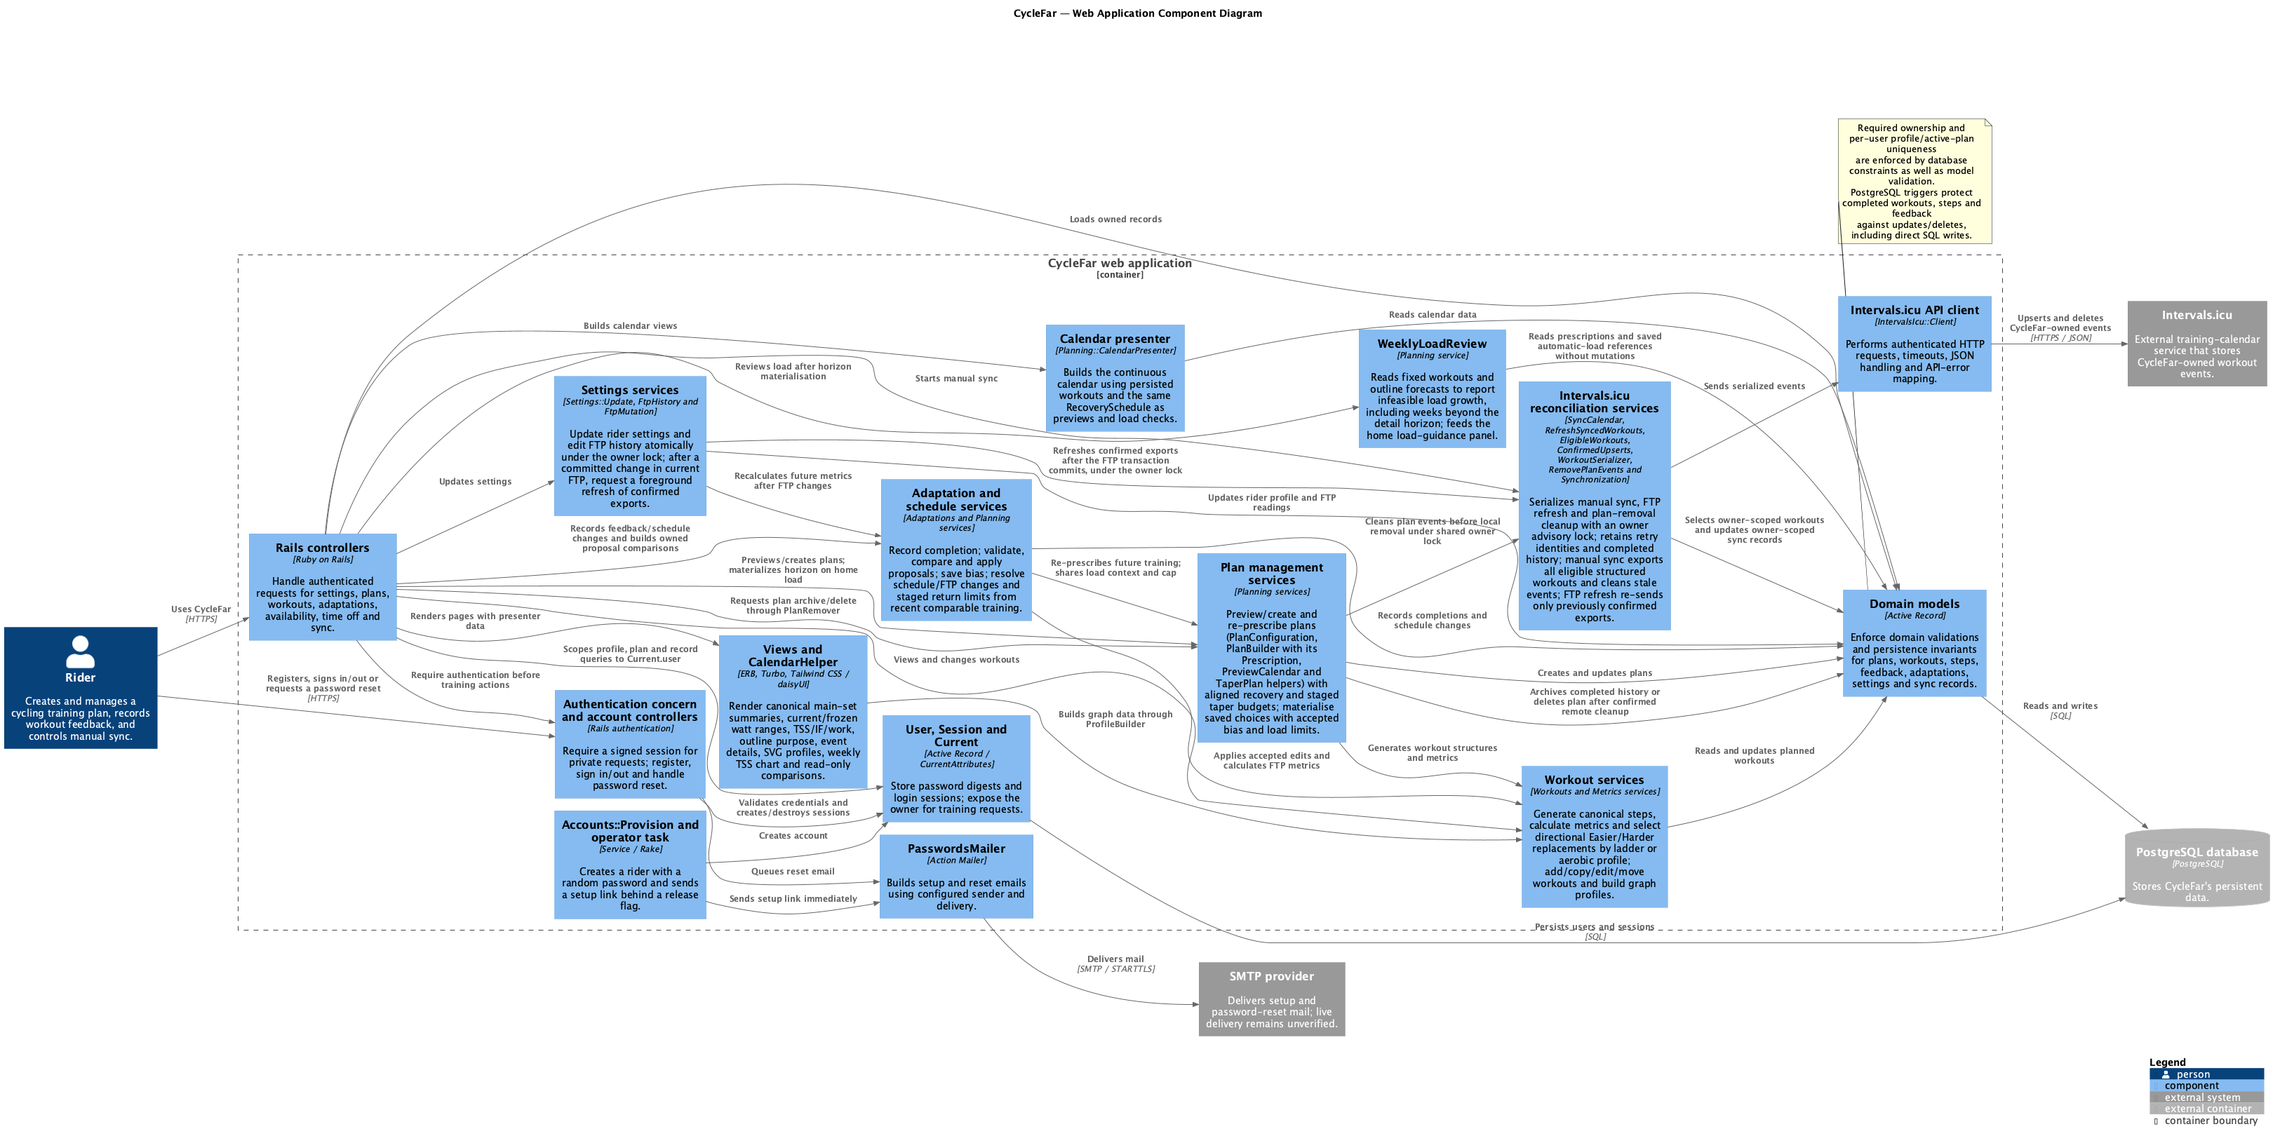
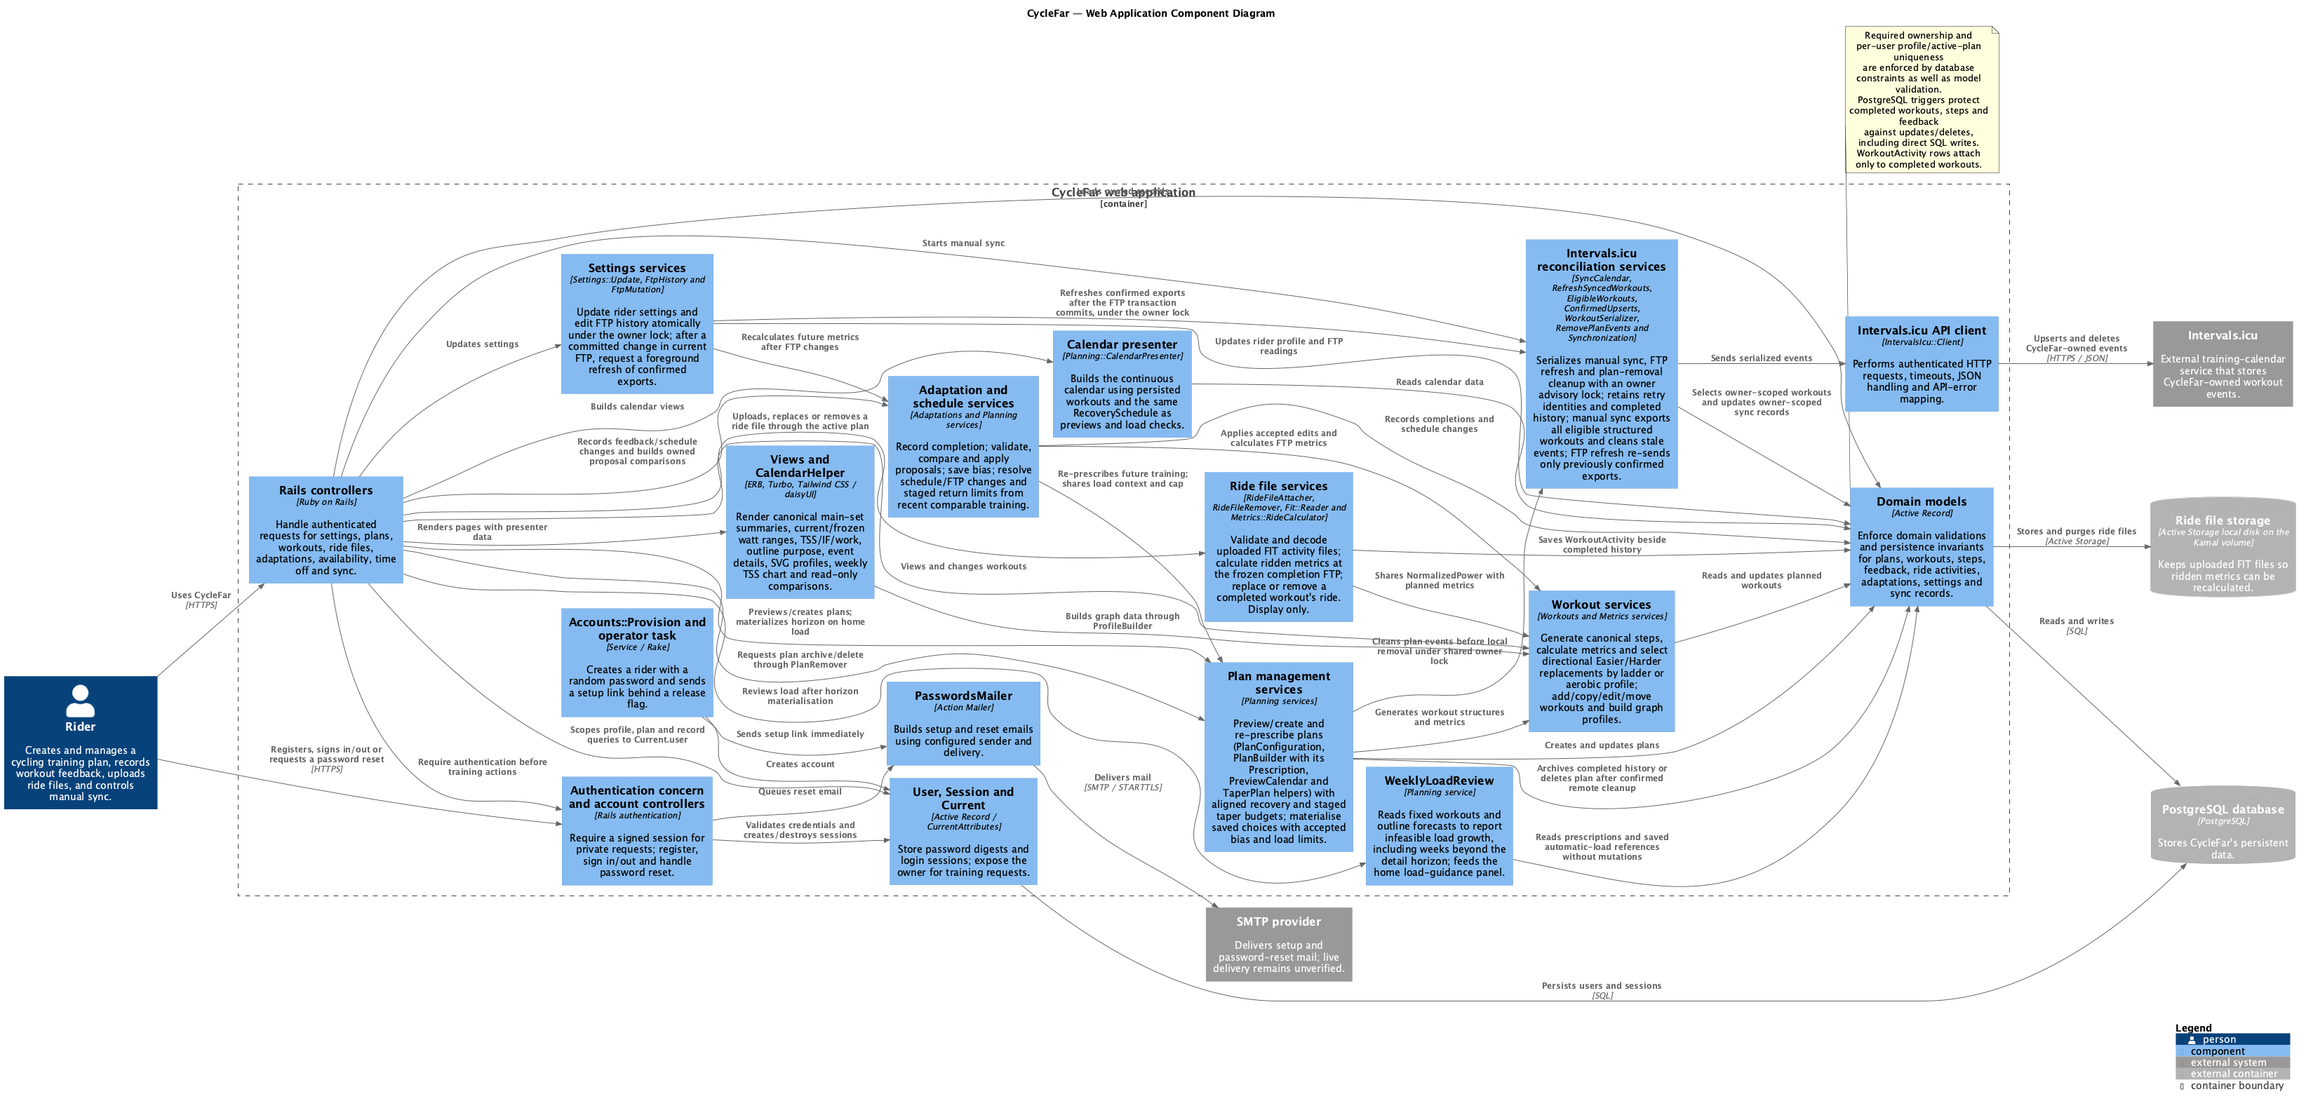
Add ride file diagram and refresh docs for FBK-004
Add a sequence view for uploading, replacing and removing a ride file. Show ride file services and Active Storage in the context, container and component views, and re-render their PNGs. Describe the ride file trigger, queued purges and the unbacked storage volume in ARCHITECTURE.md, list the missing Easier/Harder sequence there, and note shared NP in TRAINING_ENGINE.md and the README.

diff --git a/docs/diagrams/README.md b/docs/diagrams/README.md
@@ -1,12 +1,12 @@
 # CycleFar architecture diagrams
 
-These twelve diagrams describe the implemented application: owner-scoped requests and sync, account access, preview isolation, shared recovery scheduling, staged taper budgets, return-stage power limits, canonical calendar summaries, feedback comparisons, accepted progression bias, optional material-change replanning, manual Easier/Harder adjustment, plan-removal cleanup, tracked-event reconciliation and deployment boundaries. They do not certify all V1 requirements.
+These thirteen diagrams describe the implemented application: owner-scoped requests and sync, account access, ride file uploads, preview isolation, shared recovery scheduling, staged taper budgets, return-stage power limits, canonical calendar summaries, feedback comparisons, accepted progression bias, optional material-change replanning, manual Easier/Harder adjustment, plan-removal cleanup, tracked-event reconciliation and deployment boundaries. They do not certify all V1 requirements.
 
 | View (PlantUML source) | PNG | Scope |
 | --- | --- | --- |
-| [System context](context-cyclefar-system.puml) | [PNG](png/context-cyclefar-system.png) | Rider, owner-scoped CycleFar, Intervals.icu and SMTP provider |
-| [Containers](container-cyclefar.puml) | [PNG](png/container-cyclefar.png) | Rails/Puma with supervised Solid Queue, PostgreSQL databases and SMTP provider |
-| [Application components](component-cyclefar-application.puml) | [PNG](png/component-cyclefar-application.png) | Authentication, account access, canonical calendar summaries, domain services and persistence |
+| [System context](context-cyclefar-system.puml) | [PNG](png/context-cyclefar-system.png) | Rider, owner-scoped CycleFar, Intervals.icu and SMTP provider; riders upload FIT files |
+| [Containers](container-cyclefar.puml) | [PNG](png/container-cyclefar.png) | Rails/Puma with supervised Solid Queue, PostgreSQL databases, ride file storage and SMTP provider |
+| [Application components](component-cyclefar-application.puml) | [PNG](png/component-cyclefar-application.png) | Authentication, account access, canonical calendar summaries, domain services, ride file services and persistence |
 | [Plan generation](component-cyclefar-plan-generation.puml) | [PNG](png/component-cyclefar-plan-generation.png) | Session draft, configuration summary, aligned recovery, taper budgets, confirmation and saved generation choices during materialisation |
 | [Plan changes](component-cyclefar-plan-change.puml) | [PNG](png/component-cyclefar-plan-change.png) | Directional manual edits, completion, bounded feedback, atomic acceptance, comparable pre-break progression, staged return limits and FTP updates with their Intervals.icu refresh |
 | [Intervals.icu sync](component-cyclefar-intervals-icu-sync.puml) | [PNG](png/component-cyclefar-intervals-icu-sync.png) | Owner lock, active-plan recheck, shared eligibility, serialization, retained identities, confirmed-upload handling, stale-event cleanup, FTP-triggered refresh and plan-removal cleanup |
@@ -20,6 +20,7 @@ The component views answer **which parts own a responsibility**. For request ord
 | [Feedback proposal](sequence-cyclefar-feedback-proposal.puml) | [PNG](png/sequence-cyclefar-feedback-proposal.png) | Completion saves an immutable snapshot; feedback creates an optional proposal; read-only comparison precedes acceptance or rejection. |
 | [Material Change Workout proposal](sequence-cyclefar-material-change-proposal.puml) | [PNG](png/sequence-cyclefar-material-change-proposal.png) | Change Workout immediately saves the selected workout; a separate optional acceptance replans the bounded following block. |
 | [Make a workout Easier/Harder](sequence-cyclefar-directional-adjustment.puml) | [PNG](png/sequence-cyclefar-directional-adjustment.png) | Select interval ladder entries or aerobic profiles by calculated and displayed TSS; save one replacement or return a limit without writes. |
+| [Upload, replace or remove a ride file](sequence-cyclefar-ride-file-upload.puml) | [PNG](png/sequence-cyclefar-ride-file-upload.png) | Parse and validate a FIT file outside the plan lock; under the lock, calculate ridden metrics at the frozen completion FTP and save or replace the ride beside completed history; remove it on request. |
 | [Manual Intervals.icu reconciliation](sequence-cyclefar-intervals-icu-sync.puml) | [PNG](png/sequence-cyclefar-intervals-icu-sync.png) | Under the shared owner lock, recheck active status, select the eligible set, retain identities before upload, save confirmed metadata, clean stale owned events and preserve retry metadata on failure. |
 
 Read the [application component view](component-cyclefar-application.puml) for orientation, then the sequence that matches the rider action. The two proposal sequences are separate because feedback proposes edits to upcoming workouts, while a material Change Workout has already saved its source workout before the optional replan is offered.
@@ -40,7 +41,7 @@ The plan-change view shows regular structured feedback targets in today through 
 
 Manual Easier/Harder uses `DirectionalAdjustment` rather than feedback's `adapt` path. Subtype membership in `Training::Rules::LADDERS` selects nearest lower/higher interval levels followed by current-level variants. Endurance/Recovery search profiles only; the aerobic fitter returns `progression_level: nil`. Every candidate retains subtype, duration and saved load adjustments. The saved profile is tried first, then the declared rule order; the first candidate moving both canonical current-FTP TSS and displayed whole TSS in the requested direction wins. Display comparison includes database decimal rounding. A limit writes nothing and suggests Shorter/Longer or Change workout; it never wraps back to an unsuitable profile. Successful one-off edits preserve automatic references and plan bias, and do not create a replan proposal. Same still rotates profiles. See [TRAINING_ENGINE.md §21](../TRAINING_ENGINE.md#21-harder--easier-manual-shuffle).
 
-AWS Terraform/CloudFormation templates are separate infrastructure preparation. They are documented in [infra/README.md](../../infra/README.md), not represented as running containers here. The container view groups the web server and its Puma-supervised Solid Queue worker into the Kamal deployment unit. The worker delivers queued password-reset mail; it does not generate training or sync Intervals.icu.
+AWS Terraform/CloudFormation templates are separate infrastructure preparation. They are documented in [infra/README.md](../../infra/README.md), not represented as running containers here. The container view groups the web server and its Puma-supervised Solid Queue worker into the Kamal deployment unit. The worker delivers queued password-reset mail and purges replaced or removed ride files; it does not generate training or sync Intervals.icu. Uploaded FIT files live on the `cycle_far_storage` Kamal volume beside the web container.
 
 Ordinary and missed Move share `Workouts::Mover` and `DestinationValidator`. Eligible same-context moves of at most seven days keep their structure; other moves regenerate from destination progression, retaining subtype and duration. Destination exclusions and weekly load warnings apply to both paths. Openers record immutable completion feedback without progression adaptation; late regular-workout feedback is suppressed only when the next scheduled workout is completed.
 
@@ -58,13 +59,15 @@ After hard-week load enforcement, `PlanBuilder` budgets taper stages against the
 
 `PreBreakProgression` selects the latest planned/completed regular session in the comparable intensity family, excluding missed and special records and defaulting to level 1. `ReturnRamp` applies 60/70/80/100% duration factors with the 30-minute minimum; first/second-stage main targets are 45–60%/55–68% FTP, then level-1 Tempo on intensity days or Endurance on easy days. The final stage returns to the scheduled subtype one level below the baseline, with weekly progression resuming from that reduced level after the ramp. Holiday/Event/Other resume from the baseline without the reduction. `TargetBandLimiter` constrains main targets and caps every step endpoint; saved return bands/stages survive profile sampling and materialisation. Proposal freshness uses the same comparable baseline.
 
-`CalendarHelper` derives repeated main/activation summaries and watt ranges from canonical steps, including separate under/over efforts and ramp endpoints. Planned cards use current owner FTP; completed cards use frozen per-step watts. Views show TSS/IF/work, outline purpose and supplied event distance/elevation/duration. These summaries remain presentation, never training inputs.
+Ride files (FBK-004) attach only to completed workouts in the active plan. `RideFileAttacher` rejects missing or oversized files before reading and decodes the FIT file with `Fit::Reader` outside the plan lock; it then locks the plan, rechecks completion, calculates ridden metrics with `Metrics::RideCalculator` at the frozen completion FTP and saves or replaces one `WorkoutActivity` with its Active Storage file. A PostgreSQL trigger rejects rides on uncompleted workouts and moves between workouts. Ridden and planned NP share `Metrics::NormalizedPower`. Completed structure, snapshots and feedback are never written, and ridden metrics feed no totals, load limits, adaptation or sync.
+
+`CalendarHelper` derives repeated main/activation summaries and watt ranges from canonical steps, including separate under/over efforts and ramp endpoints. Planned cards use current owner FTP; completed cards use frozen per-step watts and show ridden TSS when a ride file with power is attached. Views show TSS/IF/work, outline purpose and supplied event distance/elevation/duration. These summaries remain presentation, never training inputs.
 
 ## Rendering and maintenance
 
 The `.puml` files are the maintained sources; PNG exports live in [`png/`](png/). Regenerate the PNG whenever its source changes. The source filenames determine export filenames, and all six C4 views use PlantUML's built-in Smetana layout engine, so Graphviz is not required.
 
-The C4 sources load C4-PlantUML from the upstream URL in their `!include`, so rendering those views needs access to those includes (or a locally configured copy). The six sequence sources are self-contained. The upstream `master` reference is unpinned and may change C4 rendering independently of this repository.
+The C4 sources load C4-PlantUML from the upstream URL in their `!include`, so rendering those views needs access to those includes (or a locally configured copy). The seven sequence sources are self-contained. The upstream `master` reference is unpinned and may change C4 rendering independently of this repository.
 
 With a local `plantuml` command on your `PATH`, run from the repository root:
 

diff --git a/docs/ARCHITECTURE.md b/docs/ARCHITECTURE.md
@@ -157,7 +157,7 @@ resource :intervals_icu_sync, only: :create
 
 ## Persistence, dates and invariants
 
-Use transactions for multi-record mutations. Database constraints enforce one profile and at most one active plan per user, one workout per plan/date, valid enums and key numeric bounds. Model guards and PostgreSQL triggers protect completed workouts, steps and feedback, including direct SQL updates/deletes. The SQL schema dump is `db/structure.sql`.
+Use transactions for multi-record mutations. Database constraints enforce one profile and at most one active plan per user, one workout per plan/date, valid enums and key numeric bounds. Model guards and PostgreSQL triggers protect completed workouts, steps and feedback, including direct SQL updates/deletes. A separate trigger allows `WorkoutActivity` rows only on completed workouts and rejects moving them between workouts; they can be replaced or removed because they do not change completed history. The SQL schema dump is `db/structure.sql`.
 
 Scheduling uses `date` and `Date.current` in the configured London time zone; weeks begin Monday. Exported calendar events use local midnight without adding a time-of-day concept. Percentage steps remain canonical; watts are derived for future workouts and frozen at completion. `TrainingPlan#engine_version` records `v1` as generation metadata; it does not dispatch to a version-specific implementation. Engine classes live directly under `Training` and `Planning`. `PlannedWorkout#generation_context` retains unbiased baseline levels, automatic load/level references and ceilings separately from one-off edits.
 
@@ -169,7 +169,9 @@ The application is live at `cyclefar.com`, deployed with Kamal using `config/dep
 
 Production database connections accept `DB_HOST`, `DB_PORT`, `DB_USERNAME` and `DB_PASSWORD`. Rails configures primary/cache/queue/cable databases. `config/deploy.yml` reads the web host, database host and registry user from the deploy shell and declares the runtime secrets; infrastructure provisioning does not deploy the app.
 
-Solid Cache, Solid Queue and Solid Cable use their PostgreSQL databases. Kamal sets `SOLID_QUEUE_IN_PUMA=true`, enabling the Solid Queue supervisor through Puma for queued password-reset delivery. Operator provisioning sends mail synchronously. There are no scheduled training-generation or integration-sync jobs; the recurring configuration contains only queue housekeeping. The container view groups Puma and its supervised worker as one deployment unit rather than implying a separate job server.
+Solid Cache, Solid Queue and Solid Cable use their PostgreSQL databases. Kamal sets `SOLID_QUEUE_IN_PUMA=true`, enabling the Solid Queue supervisor through Puma for queued password-reset delivery and Active Storage purges of replaced or removed ride files. Operator provisioning sends mail synchronously. There are no scheduled training-generation or integration-sync jobs; the recurring configuration contains only queue housekeeping. The container view groups Puma and its supervised worker as one deployment unit rather than implying a separate job server.
+
+Active Storage uses the local disk service at `/rails/storage`, mounted from the `cycle_far_storage` Kamal volume, to keep uploaded FIT ride files. The volume lives on the application server and is not backed up by the deployment, and database backups do not include it.
 
 ## Architecture diagrams
 
@@ -188,6 +190,8 @@ Sequence views show request order and the boundaries between in-memory previews,
 - [Change future training](diagrams/sequence-cyclefar-future-replanning.puml)
 - [Feedback proposal](diagrams/sequence-cyclefar-feedback-proposal.puml)
 - [Material Change Workout proposal](diagrams/sequence-cyclefar-material-change-proposal.puml)
+- [Make a workout Easier/Harder](diagrams/sequence-cyclefar-directional-adjustment.puml)
+- [Upload, replace or remove a ride file](diagrams/sequence-cyclefar-ride-file-upload.puml)
 - [Manual Intervals.icu reconciliation](diagrams/sequence-cyclefar-intervals-icu-sync.puml)
 
 See the [diagram guide](diagrams/README.md) for scope and rendering requirements.

diff --git a/README.md b/README.md
@@ -26,6 +26,9 @@ snapshots.
   and staged taper budgets that retain the target event and opener. Weeks that
   still exceed the growth target get an advisory panel linking to a prefilled
   availability form for that week.
+- Optional FIT ride file upload on completed workouts, comparing ridden
+  duration, NP, IF, TSS and work with the plan without changing completed
+  history.
 - Completion feedback, overdue and missed-workout resolution, and explicit
   adaptation proposals with owner-scoped before/after comparisons and a
   14-day target window. Proposals enforce seven-day expiry and reject stale
@@ -45,7 +48,7 @@ the signed-in user, and an integrated two-rider test matrix exercises those
 boundaries. Riders can self-register from the public homepage. Operator
 provisioning is disabled by default and requires an explicit environment flag;
 the documented release process requires verifying live mail delivery first.
-V1 has no ride imports, trainer control, notifications or automatic calendar syncing.
+V1 has no automatic ride imports or ride matching, trainer control, notifications or automatic calendar syncing.
 
 Each rider can have one active plan. Executable workouts for today through the
 next 13 days gain detailed steps as the calendar is loaded; later workouts

diff --git a/docs/adr/0001-ride-file-upload-for-completed-workouts.md b/docs/adr/0001-ride-file-upload-for-completed-workouts.md
@@ -29,6 +29,6 @@ The rider may upload one FIT file to a completed workout. CycleFar parses the fi
 
 ## Consequences
 
-- `PRODUCT.md`, `REQUIREMENTS.md` (a new FBK requirement), `DATA_MODEL.md`, `UX.md` and the `AGENTS.md` exclusion list are updated when the feature lands, because those documents describe the application as built.
+- `REQUIREMENTS.md` (FBK-004), `PRODUCT.md`, `DATA_MODEL.md`, `ARCHITECTURE.md`, `UX.md`, `TRAINING_ENGINE.md`, the `AGENTS.md` exclusion list and the architecture diagrams describe the feature as built.
 - Specs cover the metrics calculator and parser against fixture FIT files in `spec/fixtures` (with GPS data stripped), completed-snapshot immutability, and upload/replace/remove/invalid-file/two-rider request flows.
 - Feeding actual load into weekly totals or the training engine, day-level aggregation of several rides, and Intervals.icu activity import remain future decisions.

diff --git a/docs/TRAINING_ENGINE.md b/docs/TRAINING_ENGINE.md
@@ -659,7 +659,7 @@ For the initial <30 seconds, either:
 
 Choose one approach, document it in code and lock it with tests. Since all V1 workouts are >=30 minutes, the edge has negligible plan-level effect.
 
-The implemented calculator uses a progressively growing window for the first 29 samples, then a rolling 30-second window across step boundaries. Metrics specs lock this choice.
+The implemented calculator uses a progressively growing window for the first 29 samples, then a rolling 30-second window across step boundaries. Metrics specs lock this choice. `Metrics::NormalizedPower` holds this accumulator, and ridden metrics from uploaded FIT files (FBK-004) use it too, so planned and ridden NP are comparable.
 
 Call the result `estimated_np_watts` in code/UI where displayed.
 
